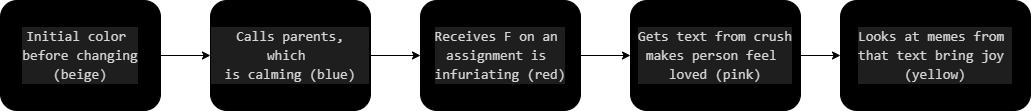
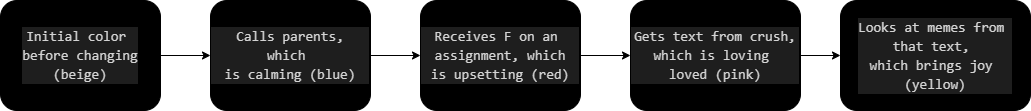
Finished Part A

Changed region(s): [[0.807, 0.1622, 0.9932, 0.8649], [0.5897, 0.2432, 0.7759, 0.7568], [0.4035, 0.2432, 0.5587, 0.7568]]

diff --git a/Lab 1/README.md b/Lab 1/README.md
@@ -76,20 +76,22 @@ The interactive device can be anything *except* a computer, a tablet computer or
 
 Sketch a storyboard of the interactions you are planning. It does not need to be perfect, but must get across the behavior of the interactive device and the other characters in the scene. 
 **Include a picture of your storyboard here**
-![](images/Storyboard.png)
+> The action of the person is stated below and the color the object will change into is in parantheses.
+> ![](images/Storyboard.png)
 
 Present your idea to the other people in your breakout room. You can just get feedback from one another or you can work together on the other parts of the lab.
 **Summarize feedback you got here.**
-> With my idea of turning this color changing object into a mug, Sals aid that we can put a piece of thin paper over the light to make it look better.  Alan suggested using sounds, such as bubbling to make the interaction more engaging not just visually.
+> With my idea of turning this color changing object into a mug, Sals aid that we can put a piece of thin paper over the light to make it look better.  Alan suggested using sounds, such as bubbling to make the interaction more engaging not just visually.  
 
 ## Part B. Act out the Interaction
 
 Try physically acting out the interaction you planned. For now, you can just pretend the device is doing the things you’ve scripted for it. 
 
 **Are there things that seemed better on paper than acted out?**
+> Just having the color change would not be as noticeable 
 
 **Are there new ideas that occur to you or your collaborators that come up from the acting?**
-
+> Alan came up with the idea that as the object is changing color, the object is also playing music that is related to the emotion.  That way, the changing color is also more noticeable.
 
 ## Part C. Prototype the device
 
